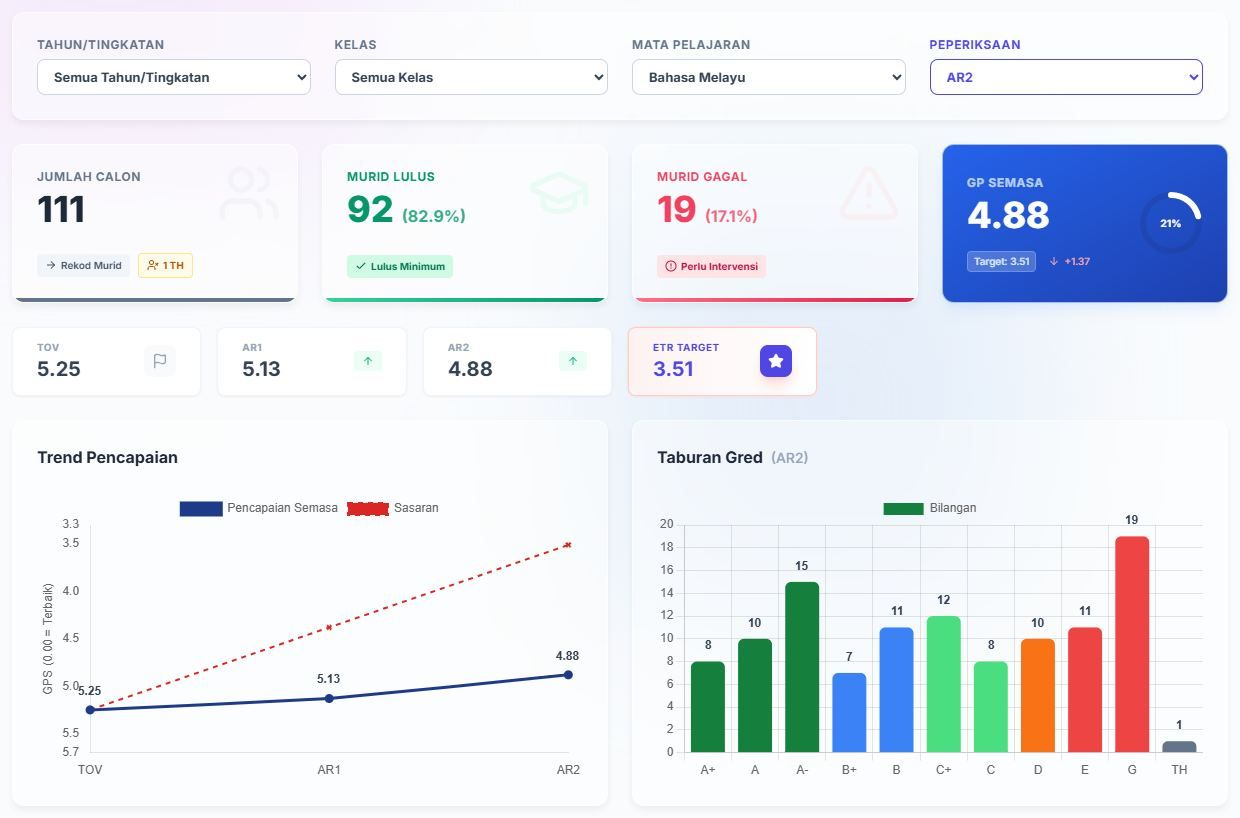
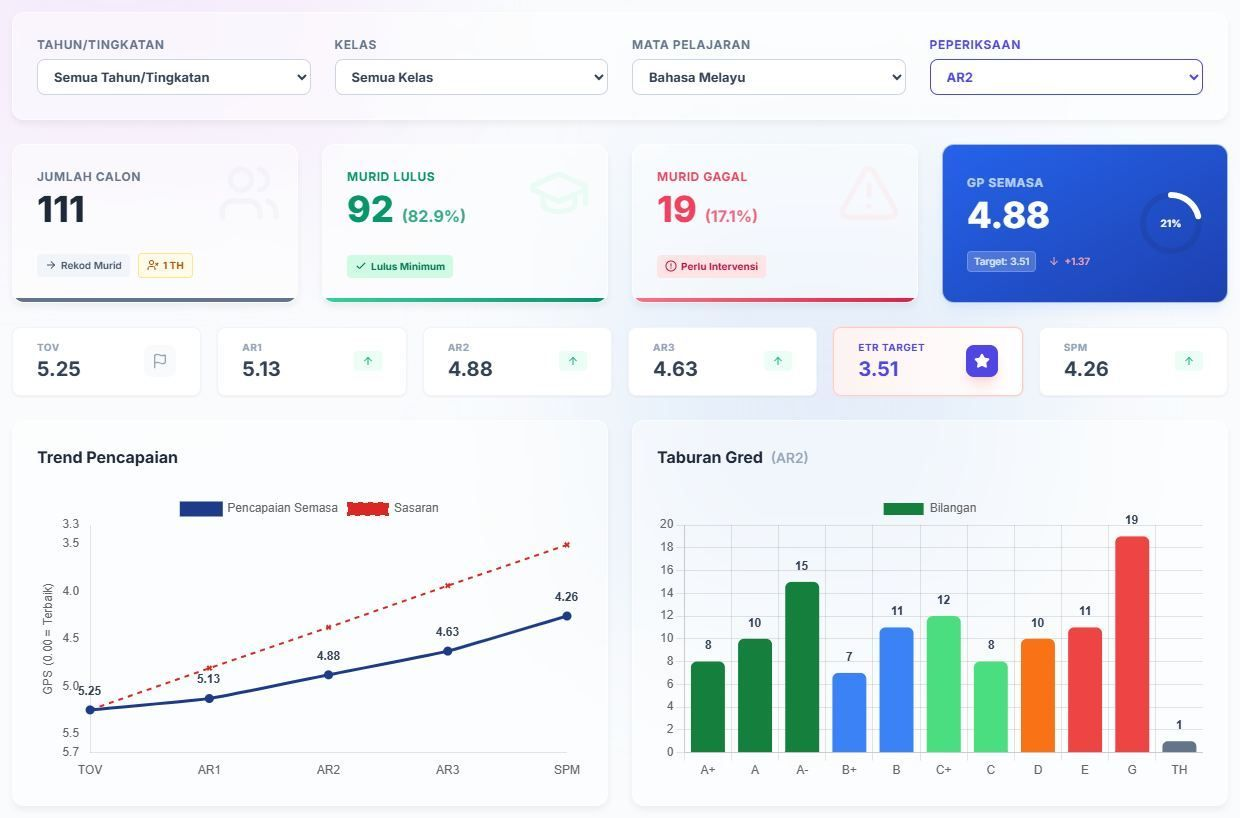
Demo lengkap hingga SPM (TOV, AR1-AR3, OTR1-OTR3, ETR, SPM) dan cetakan A4 lebih kemas
- Data demo rekaan kini meniru struktur sekolah: AR3 (Percubaan) dan SPM (gred + markah proksi)
- Kad peperiksaan Utama: tiada data dipapar '-', anak panah dibanding peperiksaan sebenar sebelumnya (bukan ETR)
- Tangkapan skrin, penanda dan angka contoh dikemas kini (Normaliti, Profil, Gred, GPMP, Utama)
- Cetakan A4: fon seragam dalam pt, modul mengalir tanpa halaman separuh kosong (26 halaman), visual Cara terangkan turut dicetak

diff --git a/index.html b/index.html
@@ -398,6 +398,45 @@ nav.side a .tick{display:inline-grid}
   a{color:inherit;text-decoration:none}
   .explain{gap:3mm}
 }
+
+/* ===== Cetakan A4: saiz fon seragam (pt) ===== */
+@media print{
+  body{font-size:10pt!important}
+  .hero p,.lead,.ex-30 p{font-size:11pt!important;line-height:1.45}
+  main p,main li,.warn-item,.ask,.callout,.ex-box p,.ex-script,.myth-q .txt,.myth-a p,.pcard p,.ck span,.steps li div{font-size:10pt!important;line-height:1.45}
+  .mod-head h2,#gp h2,#prinsip h2,#mitos h2,#semak h2{font-size:15pt!important}
+  .pcard h3,.ex-box .lbl,.ex-30 .lbl,.ck-h{font-size:10.5pt!important}
+  main h3{font-size:11pt!important}
+  .mod-head .q{font-size:9.5pt!important}
+  table th{font-size:8pt!important}table td{font-size:9.5pt!important}
+  .print-spots,.print-spots li{font-size:9pt!important}
+  .shot-cap{font-size:8.5pt!important}
+  .steps{gap:1.5mm!important}.steps li{grid-template-columns:22px 1fr!important}.steps li::before{width:18px!important;height:18px!important;font-size:8pt!important}
+  .warn-item b{font-size:10pt!important}
+  .tag,.pill{font-size:7.5pt!important}
+  .kpi small{font-size:8pt!important}.kpi strong{font-size:15pt!important}
+  .ex-viz{display:block!important;break-inside:avoid;padding:3mm!important;background:#fff!important}
+  .ex-viz .chipbtns,.ex-viz .flow-new,.ex-cap{display:none!important}
+  .ex-viz h3{font-size:10pt!important}
+  .nm-svg{max-width:120mm!important}
+  .ruler{height:100px!important;margin-bottom:28px!important}
+  .stack{height:48px!important}.stack button{font-size:9pt!important}
+  .scale div{font-size:9pt!important}.scale small{font-size:7pt!important}
+  .glossary td,#glossary td{font-size:9pt!important}
+}
+
+/* ===== Cetakan A4: aliran berterusan, tiada halaman separuh kosong ===== */
+@media print{
+  #gp,#modules section.mod,#mitos,#semak{break-before:auto!important}
+  #modules section.mod,#gp,#mitos,#semak{border-top:2px solid #111!important;padding-top:4mm!important;margin-top:7mm!important}
+  .mod-head{break-after:avoid!important;break-inside:avoid}
+  .mod-head + .tabs + .panel,.panel[data-label]::before{break-after:avoid}
+  .panel{break-before:auto}
+  main{padding-right:2px!important}
+  .hero p,.lead,.ex-30 p{font-size:10.5pt!important}
+  .shot-wrap{break-inside:avoid}
+}
+@media print{.shot-wrap{break-inside:auto!important}.shot{break-inside:avoid}.shot img{max-height:150mm!important}.shot-cap{break-after:avoid}}
 </style>
 </head>
 <body>
@@ -522,7 +561,7 @@ const MODS=[
 {id:"utama",title:"Analisis HC (Utama)",where:"Utama",grp:"Paparan Utama",q:"Adakah kita di landasan untuk mencapai target?",
  sum:`<p class="lead">Jawapannya ada pada <b>jarak</b> antara GP semasa dengan GP ETR, dan <b>arah trend</b> merentas peperiksaan.</p>
  <p>Paparan ini mengandungi empat kad (Jumlah Calon, Lulus, Gagal, GP Semasa berbanding Target), kad GP bagi setiap peperiksaan dengan anak panah, graf taburan gred, dan graf trend "Pencapaian Semasa" berbanding garis "Sasaran" (OTR).</p>
- <div class="tbl"><table><thead><tr><th>Contoh: GP Bahasa Melayu</th><th class="n">TOV</th><th class="n">AR1</th><th class="n">AR2</th><th class="n">ETR</th></tr></thead><tbody><tr><td>GP</td><td class="n">5.25</td><td class="n">5.13</td><td class="n">4.88</td><td class="n">3.51</td></tr></tbody></table></div>`,
+ <div class="tbl"><table><thead><tr><th>Contoh: GP Bahasa Melayu</th><th class="n">TOV</th><th class="n">AR1</th><th class="n">AR2</th><th class="n">AR3</th><th class="n">ETR</th><th class="n">SPM</th></tr></thead><tbody><tr><td>GP</td><td class="n">5.25</td><td class="n">5.13</td><td class="n">4.88</td><td class="n">4.63</td><td class="n">3.51</td><td class="n">4.26</td></tr></tbody></table></div>`,
  steps:["Pilih <b>satu subjek</b> dan <b>satu peperiksaan</b> dahulu supaya angka mewakili murid sebenar.","Bandingkan GP Semasa dengan Target (GP ETR). Kad bertanda \"Capai\" atau \"+jurang\".","Lihat anak panah pada kad setiap peperiksaan: <span class='pill good'>hijau</span> = GP turun = baik.","Buka graf taburan gred untuk melihat berapa murid di D dan E, bukan sekadar lulus."],
  warn:[["Subjek = Semua: Lulus/Gagal ikut rekod","Jumlah Calon menunjukkan bilangan murid, tetapi Lulus/Gagal dikira ikut rekod markah (contoh: 704 rekod lulus daripada 891 rekod). Label bertukar kepada \"Rekod Lulus/Gagal\"."],["Bulatan = kemajuan dari TOV ke target","(GP TOV − GP semasa) ÷ (GP TOV − GP target). 0% = masih di TOV, 100% = capai target. Jangan kira dari GP 9 (terburuk): cara itu memberi peratus yang terlalu tinggi."],["Lulus termasuk D dan E","82.9% lulus boleh menyembunyikan ramai murid di sempadan."],["TH tidak dikira gagal","TH yang tinggi membuat peratus lulus nampak lebih baik."]],
  ask:"Berapa GP lagi perlu diturunkan? Adakah kadar sekarang mencukupi? Subjek dan kelas mana menyumbang paling banyak kepada jurang?",
@@ -552,10 +591,10 @@ const MODS=[
  sum:`<p class="lead">Graf ini menunjukkan sama ada murid berkumpul di tengah, terbahagi kepada <b>dua kumpulan</b>, atau tertumpu di bawah.</p>
  <p>Setiap peperiksaan ialah satu lengkung (markah dalam selang 10). Lengkung "Benchmark" dibina daripada purata dan sisihan piawai <b>semua</b> peperiksaan yang dipaparkan. Kad statistik dikira semula apabila anda sembunyikan peperiksaan pada legenda.</p>`,
  steps:["Pilih satu subjek.","Baca kad statistik: purata dan sisihan piawai dikira <b>tanpa ETR</b> (target). Klik nama peperiksaan pada legenda untuk banding satu-satu.","Lihat sama ada ada <b>dua bonggol</b>: tanda dua kumpulan berbeza.","Bandingkan ekor kiri (murid lemah) antara peperiksaan: adakah ia ikut bergerak?"],
- warn:[["ETR ialah target, bukan pencapaian","Dashboard mengecualikan ETR daripada Benchmark dan kad statistik. Jika ETR dicampur, purata akan naik (51.57 berbanding 48.78) walaupun tiada murid yang bertambah baik."],["\"Analisis Bentuk\" hanya ikut purata","≥65 = \"Condong Kiri\", ≤40 = \"Condong Kanan\". Ini bukan ukuran kepencongan sebenar."],["Sisihan piawai besar = jurang dalam kelas","Satu kaedah PdP mungkin tidak sesuai untuk semua."]],
+ warn:[["ETR ialah target, bukan pencapaian","Dashboard mengecualikan ETR daripada Benchmark dan kad statistik. Jika ETR dicampur, purata akan naik (51.53 berbanding 49.42) walaupun tiada murid yang bertambah baik."],["\"Analisis Bentuk\" hanya ikut purata","≥65 = \"Condong Kiri\", ≤40 = \"Condong Kanan\". Ini bukan ukuran kepencongan sebenar."],["Sisihan piawai besar = jurang dalam kelas","Satu kaedah PdP mungkin tidak sesuai untuk semua."]],
  ask:"Adakah seluruh lengkung bergerak ke kanan, atau hanya murid yang sudah baik? Adakah wujud dua kumpulan yang perlukan strategi berbeza?",
  lab:`<h3>Cuba: pilih peperiksaan yang dipaparkan (Matematik)</h3><div class="row" id="nmBox"></div><div class="kpis"><div class="kpi"><small>Purata jika dicampur</small><strong id="nmM">–</strong></div><div class="kpi"><small>Label "Analisis Bentuk"</small><strong id="nmL" style="font-size:16px">–</strong></div></div><div class="callout" id="nmNote"></div>`,
- init(){const D=[["TOV",112,47.9],["AR1",112,48.3],["AR2",110,50.1],["ETR",112,59.9]];nmBox.innerHTML=D.map((d,i)=>`<label class="ck" style="border:0;padding:4px 10px 4px 0"><input type="checkbox" data-i="${i}" checked><span>${d[0]} <small style="color:var(--muted)">(purata ${d[2]})</small></span></label>`).join('');
+ init(){const D=[["TOV",112,47.9],["AR1",112,48.3],["AR2",110,50.1],["AR3",110,51.4],["ETR",112,59.9]];nmBox.innerHTML=D.map((d,i)=>`<label class="ck" style="border:0;padding:4px 10px 4px 0"><input type="checkbox" data-i="${i}" checked><span>${d[0]} <small style="color:var(--muted)">(purata ${d[2]})</small></span></label>`).join('');
    const f=()=>{let n=0,s=0,etr=false;nmBox.querySelectorAll('input').forEach(c=>{if(c.checked){const d=D[c.dataset.i];n+=d[1];s+=d[1]*d[2];if(d[0]==='ETR')etr=true}});if(!n){nmM.textContent='–';nmL.textContent='–';nmNote.textContent='Pilih sekurang-kurangnya satu.';return}const m=s/n;nmM.textContent=m.toFixed(1);nmL.textContent=m>=65?'Condong Kiri':m<=40?'Condong Kanan':'Normal / Sederhana';
    nmNote.innerHTML=etr?'<b>ETR dicampur:</b> purata naik kerana target bukan pencapaian. Sebab itu Dashboard tidak mencampurkan ETR.':'Tanpa ETR: inilah purata pencapaian sebenar, sama seperti yang dipaparkan Dashboard.'};nmBox.onchange=f;f()},
  quiz:{q:"Graf markah mempunyai dua bonggol yang jelas. Apa tindakan terbaik?",opts:["Laporkan purata keseluruhan","Tapis mengikut kelas atau aliran untuk melihat dua kumpulan itu","Abaikan, ia kebetulan"],ans:1,exp:"Dua bonggol bermaksud dua kumpulan berbeza (contohnya aliran sains dan sastera). Purata tunggal menyembunyikan kedua-duanya."}},
@@ -689,8 +728,9 @@ utama:[{img:'img/utama.jpg',cap:'Paparan Utama · Bahasa Melayu · AR2',spots:[
  [40.3,26.3,'Lulus termasuk D dan E','92 lulus (82.9%) termasuk murid gred D dan E yang berada di sempadan.'],
  [88.7,21.4,'Bulatan = kemajuan dari TOV','21%: GP sudah bergerak 21% daripada jarak TOV (5.25) ke target (3.51). Masih ada 79% jarak lagi.'],
  [25.8,45,'Kad setiap peperiksaan','Anak panah hijau bermaksud GP turun, iaitu prestasi naik berbanding peperiksaan sebelumnya.'],
- [37.1,78.2,'Pencapaian vs Sasaran','Garis biru (sebenar) makin jauh dari garis merah putus-putus (OTR). Sekolah makin ketinggalan dari landasan target.'],
- [85.5,68.5,'Taburan gred','19 murid G dan 21 murid D/E. Peratus lulus 82.9% menyembunyikan 40 murid yang berisiko.']]}],
+ [40.3,88,'Pencapaian vs Sasaran','Garis biru (sebenar) makin jauh dari garis merah putus-putus (OTR). Sekolah makin ketinggalan dari landasan target.'],
+ [85.5,68.5,'Taburan gred','19 murid G dan 21 murid D/E. Peratus lulus 82.9% menyembunyikan 40 murid yang berisiko.'],
+ [91.9,45,'Kad SPM','Keputusan SPM sebenar (gred). Anak panah membandingkan SPM dengan AR3, iaitu peperiksaan sebenar terakhir, bukan dengan ETR target. Jika tiada data, kad memaparkan –.']]}],
 matriks:[{img:'img/matriks.jpg',cap:'Matriks Pencapaian · Matematik · TOV → AR2',spots:[
  [82.3,5.8,'Mula dan Akhir','Pilih OTR1/OTR2 sebagai "Akhir" untuk menyemak sama ada murid berada di tempat sepatutnya, bukan sekadar bergerak.'],
  [13.3,37.4,'Cara baca paksi','Lajur (melintang) = gred TOV. Baris (menegak) = gred AR2.'],
@@ -699,23 +739,24 @@ matriks:[{img:'img/matriks.jpg',cap:'Matriks Pencapaian · Matematik · TOV → 
  [88.7,60.5,'Ringkasan pergerakan','41 naik, 50 kekal, 19 merosot. Hampir separuh murid tidak bergerak gred langsung.'],
  [92.7,86.6,'TH / tidak setara','2 murid tidak hadir dalam salah satu peperiksaan. Mereka tidak dikira Meningkat atau Merosot kerana perbandingannya tidak setara.']]}],
 normaliti:[{img:'img/normaliti.jpg',cap:'Taburan Normal · Matematik',spots:[
- [26.6,30.1,'Legenda boleh diklik','Klik nama peperiksaan untuk sembunyi atau papar lengkungnya. Kad statistik dikira semula.'],
- [37.9,39,'Puncak TOV di 40','Ramai murid berkumpul betul-betul di sempadan lulus. Sedikit gerakan boleh mengubah peratus lulus dengan besar.'],
- [80.6,39,'Lengkung Benchmark','Taburan normal teori daripada pencapaian sebenar (tanpa ETR). Lengkung peperiksaan yang lari jauh dari bentuk ini perlu disiasat.'],
- [29,90.9,'Purata tanpa ETR','48.78 ialah purata pencapaian sebenar. ETR ialah target, jadi tidak dicampur dalam purata ini.'],
- [61.3,90.9,'Sisihan piawai','17.61: kebanyakan murid tersebar kira-kira 18 markah di atas dan bawah purata. Satu kaedah PdP mungkin tidak sesuai untuk semua.'],
- [93.5,90.9,'Analisis Bentuk','Label ini hanya berdasarkan purata (40–65 = "Normal / Sederhana"), bukan bentuk graf sebenar.']]}],
+ [20.2,28.5,'Legenda boleh diklik','Klik nama peperiksaan untuk sembunyi atau papar lengkungnya. Kad statistik dikira semula.'],
+ [37.9,36.8,'Puncak TOV di 40','Ramai murid berkumpul betul-betul di sempadan lulus. Kenaikan atau penurunan beberapa markah sahaja sudah cukup untuk memindahkan mereka melintasi garis 40, jadi peratus lulus boleh berubah banyak walaupun purata hampir sama.'],
+ [80.6,36.8,'Lengkung Benchmark','Taburan normal teori daripada pencapaian sebenar (tanpa ETR). Lengkung peperiksaan yang lari jauh dari bentuk ini perlu disiasat.'],
+ [41.9,79.3,'Lengkung SPM','SPM hanya ada gred, jadi markah proksi digunakan (cth G = 20, A+ = 95). Sebab itu bentuknya berbonggol pelik. Jangan bandingkan bentuk SPM dengan peperiksaan lain.'],
+ [29,91.7,'Purata tanpa ETR','49.42 ialah purata pencapaian sebenar. ETR (target) dan SPM (markah proksi) tidak dicampur dalam purata ini.'],
+ [61.3,91.7,'Sisihan piawai','18.61: kebanyakan murid tersebar kira-kira 19 markah di atas dan bawah purata. Satu kaedah PdP mungkin tidak sesuai untuk semua.'],
+ [93.5,91.7,'Analisis Bentuk','Label ini hanya berdasarkan purata (40–65 = "Normal / Sederhana"), bukan bentuk graf sebenar.']]}],
 gpmp:[{img:'img/gpmp.jpg',cap:'Banding GPMP · semua subjek',spots:[
  [56.5,4.9,'Simulasi','Pilih +1 gred, +10 markah dan lain-lain untuk menguji sama ada target realistik. Nombor bertukar merah.'],
- [29.8,24.9,'Kad OTR','Target pertengahan yang dikira dari TOV ke ETR. Bandingkan AR1 dengan OTR1, AR2 dengan OTR2.'],
+ [23,24.9,'Kad OTR','Target pertengahan yang dikira dari TOV ke ETR. Bandingkan AR1 dengan OTR1, AR2 dengan OTR2, AR3 dengan OTR3.'],
  [16.1,46.6,'Klik nama subjek','Membuka graf trend subjek itu.'],
- [83.9,42.2,'Anak panah dalam lajur','Hijau = GP turun (baik). Merah = GP naik (merosot). Contoh: Pendidikan Islam 4.06 → 4.10 merosot walaupun GP-nya antara yang terbaik.'],
+ [67.3,42.2,'Anak panah dalam lajur','Hijau = GP turun (baik). Merah = GP naik (merosot). Contoh: Pendidikan Islam 4.06 → 4.10 dalam AR2 (merosot), kemudian pulih ke 4.01 dalam AR3.'],
  [96,42.2,'Lajur ETR','Kira jarak AR2 ke ETR bagi setiap baris. Subjek dengan GP baik tidak semestinya paling hampir dengan targetnya.']]},
  {img:'img/gred.jpg',cap:'Analisis Gred · Matematik',spots:[
- [27.4,57.3,'GPMP setiap peperiksaan','6.48 → 6.29 → 6.05. Bertambah baik, tetapi masih jauh dari ETR 4.67.'],
- [73.3,57.3,'Lajur D dan E','19 murid di D/E dalam AR2. Mereka dikira lulus tetapi mudah jatuh ke G.'],
- [81.4,57.3,'Lajur G','36 → 40 → 33. G naik dalam AR1 sebelum turun. Satu titik tidak menceritakan semuanya.'],
- [87.6,57.3,'TH','2 murid tidak hadir AR2.']]}],
+ [27.4,50.2,'GPMP setiap peperiksaan','6.48 → 6.29 → 6.05 → 5.72 (AR3), dan SPM 5.50. Bertambah baik, tetapi masih jauh dari ETR 4.67.'],
+ [73.3,50.2,'Lajur D dan E','19 murid di D/E dalam AR2. Mereka dikira lulus tetapi mudah jatuh ke G.'],
+ [81.4,50.2,'Lajur G','36 → 40 → 33 → 34 → 28 (SPM). G naik dalam AR1 dan AR3 sebelum turun. Satu titik tidak menceritakan semuanya.'],
+ [87.6,50.2,'TH','2 murid tidak hadir AR2 dan 2 murid tidak hadir AR3.']]}],
 grisk:[{img:'img/grisk.jpg',cap:'Analisis Risiko G-Risk · Matematik · AR2',spots:[
  [96,3.6,'Mod 3-Tier / 4-Tier','Mengubah cara murid G dipecahkan. Gunakan 4-Tier jika ramai murid sangat lemah.'],
  [50,16.3,'Definisi FDI','"Lagi tinggi FDI, lagi ramai calon hampir lulus". Nama "Fail Density" mengelirukan: nilai tinggi ialah berita baik.'],
@@ -765,12 +806,13 @@ individu:[{img:'img/rumusan.jpg',cap:'Rumusan Keseluruhan · AR2',spots:[
  [64.5,31.9,'Sel TH (kelabu)','Subjek TH tidak dikira dalam GP individu murid.'],
  [96.8,36.7,'GP individu','Disusun dari terbaik. Semua subjek diberi berat sama, jadi bandingkan murid dalam aliran yang sama.']]},
  {img:'img/profil.jpg',cap:'Profil Murid · contoh murid 5 DEDIKASI',spots:[
- [24.2,9.3,'Pilih murid','Pilih tingkatan, kelas, kemudian murid.'],
- [68.5,16.6,'Cetak PDF','PDF individu atau seluruh kelas, untuk perjumpaan dengan murid atau ibu bapa.'],
- [17.5,25.9,'Label VARK','Label isian guru. Gunakan untuk variasi PdP, bukan sebagai sebab murid lemah.'],
- [43.7,58.6,'AR1 30 vs OTR1 46','Murid ini 16 markah di bawah sasaran pertengahan dalam BM.'],
- [74.2,59.3,'AR2 24 vs OTR2 49','Jurang melebar ke 25 markah. Corak menurun berterusan, bukan satu hari yang buruk.'],
- [79.8,78.3,'Semua subjek jatuh serentak','AR2 lebih rendah daripada AR1 dalam semua 7 subjek. Ini isu murid (kehadiran, motivasi, keluarga), bukan isu subjek.']]}]
+ [24.2,9,'Pilih murid','Pilih tingkatan, kelas, kemudian murid.'],
+ [68.5,16.2,'Cetak PDF','PDF individu atau seluruh kelas, untuk perjumpaan dengan murid atau ibu bapa.'],
+ [17.5,24.4,'Label VARK','Label isian guru. Gunakan untuk variasi PdP, bukan sebagai sebab murid lemah.'],
+ [34.2,56.9,'AR1 30 vs OTR1 45','Murid ini 15 markah di bawah sasaran pertengahan dalam BM.'],
+ [57,57.6,'AR2 24 vs OTR2 48','Jurang melebar ke 24 markah. Corak menurun berterusan, bukan satu hari yang buruk.'],
+ [79.9,58.7,'AR3 18 vs OTR3 50','32 markah di bawah sasaran, dan SPM akhirnya G. Murid ini sepatutnya dikenal pasti seawal AR1.'],
+ [80.6,76.2,'Semua subjek jatuh serentak','AR3 lebih rendah daripada AR1 dalam semua 7 subjek, dan SPM gred G untuk semua. Ini isu murid (kehadiran, motivasi, keluarga), bukan isu subjek.']]}]
 };
 const shotHTML=(id,s)=>`<div class="shot-wrap" data-shot="${id}"><p class="shot-cap">${s.cap}<span class="shot-hint"> · <span class="hv">halakan tetikus atau </span>klik nombor untuk penerangan, klik gambar untuk zum</span><span class="demo-link"> · <a href="demo/dashboard.html?page=dashboard" target="_blank" rel="noopener">Cuba dalam demo ↗</a></span></p>
  <div class="shot" role="group" aria-label="Tangkapan skrin: ${s.cap}"><img src="${s.img}" alt="Tangkapan skrin Dashboard SPPM: ${s.cap}" loading="lazy" decoding="async" width="1240" height="${IMG_DIM[s.img]||800}">${s.spots.map((p,i)=>`<button class="spot" style="left:${p[0]}%;top:${p[1]}%" data-i="${i}" aria-label="${i+1}. ${p[2]}" aria-describedby="${id}-pop">${i+1}</button>`).join('')}<div class="pop" id="${id}-pop" role="tooltip" hidden></div></div>
@@ -798,7 +840,7 @@ function setSpot(wrap,i,show){const s=shotData(wrap.dataset.shot);i=(i+s.spots.l
 const ICO={"menu":"<path d=\"M4 6h16M4 12h16M4 18h16\"/>","moon":"<path d=\"M12 3a6 6 0 0 0 9 9 9 9 0 1 1-9-9Z\"/>","scale":"<path d=\"m16 16 3-8 3 8c-.87.65-1.92 1-3 1s-2.13-.35-3-1Z\"/><path d=\"m2 16 3-8 3 8c-.87.65-1.92 1-3 1s-2.13-.35-3-1Z\"/><path d=\"M7 21h10\"/><path d=\"M12 3v18\"/><path d=\"M3 7h2c2 0 5-1 7-2 2 1 5 2 7 2h2\"/>","users":"<path d=\"M16 21v-2a4 4 0 0 0-4-4H6a4 4 0 0 0-4 4v2\"/><circle cx=\"9\" cy=\"7\" r=\"4\"/><path d=\"M22 21v-2a4 4 0 0 0-3-3.87\"/><path d=\"M16 3.13a4 4 0 0 1 0 7.75\"/>","trend":"<path d=\"m22 7-8.5 8.5-5-5L2 17\"/><path d=\"M16 7h6v6\"/>","search":"<circle cx=\"11\" cy=\"11\" r=\"8\"/><path d=\"m21 21-4.3-4.3\"/>","checkCircle":"<path d=\"M22 11.08V12a10 10 0 1 1-5.93-9.14\"/><path d=\"m9 11 3 3L22 4\"/>","star":"<path d=\"M12 2l3.09 6.26L22 9.27l-5 4.87 1.18 6.88L12 17.77l-6.18 3.25L7 14.14 2 9.27l6.91-1.01L12 2z\"/>","alert":"<path d=\"m21.73 18-8-14a2 2 0 0 0-3.48 0l-8 14A2 2 0 0 0 4 21h16a2 2 0 0 0 1.73-3Z\"/><path d=\"M12 9v4\"/><path d=\"M12 17h.01\"/>","repeat":"<path d=\"m17 2 4 4-4 4\"/><path d=\"M3 11v-1a4 4 0 0 1 4-4h14\"/><path d=\"m7 22-4-4 4-4\"/><path d=\"M21 13v1a4 4 0 0 1-4 4H3\"/>","clip":"<rect width=\"8\" height=\"4\" x=\"8\" y=\"2\" rx=\"1\"/><path d=\"M16 4h2a2 2 0 0 1 2 2v14a2 2 0 0 1-2 2H6a2 2 0 0 1-2-2V6a2 2 0 0 1 2-2h2\"/><path d=\"m9 14 2 2 4-4\"/>","camera":"<path d=\"M14.5 4h-5L7 7H4a2 2 0 0 0-2 2v9a2 2 0 0 0 2 2h16a2 2 0 0 0 2-2V9a2 2 0 0 0-2-2h-3l-2.5-3z\"/><circle cx=\"12\" cy=\"13\" r=\"3\"/>","check":"<path d=\"M20 6 9 17l-5-5\"/>","up":"<path d=\"m5 12 7-7 7 7\"/><path d=\"M12 19V5\"/>","left":"<path d=\"m15 18-6-6 6-6\"/>","right":"<path d=\"m9 18 6-6-6-6\"/>","x":"<path d=\"M18 6 6 18\"/><path d=\"m6 6 12 12\"/>","compass":"<circle cx=\"12\" cy=\"12\" r=\"10\"/><path d=\"m16.24 7.76-2.12 6.36-6.36 2.12 2.12-6.36 6.36-2.12z\"/>","calendar":"<rect width=\"18\" height=\"18\" x=\"3\" y=\"4\" rx=\"2\"/><path d=\"M16 2v4M8 2v4M3 10h18\"/>","help":"<circle cx=\"12\" cy=\"12\" r=\"10\"/><path d=\"M9.09 9a3 3 0 0 1 5.83 1c0 2-3 3-3 3\"/><path d=\"M12 17h.01\"/>","printer":"<path d=\"M6 9V2h12v7\"/><path d=\"M6 18H4a2 2 0 0 1-2-2v-5a2 2 0 0 1 2-2h16a2 2 0 0 1 2 2v5a2 2 0 0 1-2 2h-2\"/><rect width=\"12\" height=\"8\" x=\"6\" y=\"14\"/>","reset":"<path d=\"M3 12a9 9 0 1 0 9-9 9.75 9.75 0 0 0-6.74 2.74L3 8\"/><path d=\"M3 3v5h5\"/>"};
 const svg=(n,cls='')=>`<svg class="ico ${cls}" viewBox="0 0 24 24" aria-hidden="true">${ICO[n]}</svg>`;
 // Saiz sebenar gambar (elak lompatan susun atur semasa dimuat)
-const IMG_DIM={'img/utama.jpg':818,'img/matriks.jpg':760,'img/normaliti.jpg':770,'img/gpmp.jpg':905,'img/gred.jpg':525,'img/grisk.jpg':1225,'img/impak.jpg':622,'img/jurang.jpg':1524,'img/vark.jpg':1100,'img/gaction.jpg':1524,'img/rumusan.jpg':1112,'img/profil.jpg':1400};
+const IMG_DIM={'img/utama.jpg':818,'img/matriks.jpg':760,'img/normaliti.jpg':815,'img/gpmp.jpg':905,'img/gred.jpg':600,'img/grisk.jpg':1225,'img/impak.jpg':622,'img/jurang.jpg':1524,'img/vark.jpg':1100,'img/gaction.jpg':1524,'img/rumusan.jpg':1112,'img/profil.jpg':1440};
 
 /* ===================== RENDER ===================== */
 const $=s=>document.querySelector(s);
@@ -816,7 +858,7 @@ const exScript=(t)=>`<div class="ex-box"><div class="lbl">${svg('calendar','sm')
 const EXPLAIN={
 normaliti:{html:exHead('Graf ini mengira <b>berapa murid dalam setiap julat 10 markah</b>. Bentuk graf memberitahu sama ada murid berkumpul di tengah, terpisah kepada dua kumpulan, atau ramai tertinggal di bawah 40.','Bayangkan semua murid beratur di padang mengikut markah: 0 di hujung kiri, 100 di hujung kanan. Graf ini ialah <b>ketinggian barisan</b> di setiap tempat. Bonggol tinggi = ramai murid berdiri di situ.')
  +`<div class="ex-viz"><h3>Cuba: pilih bentuk taburan</h3><div class="chipbtns" id="nmxBtns"><button class="on" data-k="sihat">Sihat</button><button data-k="dua">Dua kumpulan</button><button data-k="bawah">Ramai di bawah</button><button data-k="gerak">Bergerak (TOV → AR2)</button></div><svg class="nm-svg" id="nmxSvg" viewBox="0 0 520 210" role="img" aria-label="Contoh bentuk taburan markah"></svg><div class="ex-cap" id="nmxCap"></div></div>`
- +exScript('Graf ini menunjukkan berapa murid dalam setiap julat 10 markah. Untuk Matematik, kebanyakan murid berkumpul sekitar 40, iaitu betul-betul di sempadan lulus. Sedikit kenaikan markah boleh mengubah peratus lulus dengan besar, jadi tumpuan kita ialah murid dalam julat 30 hingga 49.'),
+ +exScript('Graf ini menunjukkan berapa murid dalam setiap julat 10 markah. Untuk Matematik, kebanyakan murid berkumpul sekitar 40, iaitu betul-betul di sempadan lulus. Kenaikan beberapa markah sahaja boleh memindahkan ramai murid melintasi garis lulus, jadi tumpuan kita ialah murid dalam julat 30 hingga 49.'),
  init(){const P={sihat:{a:[0,1,3,8,15,22,15,8,3,1,0],cap:'<b>Satu bonggol, kebanyakan di atas 40.</b>Pengajaran biasa sesuai untuk majoriti. Tumpu kepada ekor kiri: murid yang masih di bawah garis 40.'},
   dua:{a:[0,2,8,14,8,4,8,14,8,2,0],cap:'<b>Dua bonggol = dua kumpulan berbeza.</b>Contohnya aliran sains dan sastera, atau kelas kuat dan lemah. Purata tunggal mengelirukan. Tapis ikut kelas dan rancang dua strategi berbeza.'},
   bawah:{a:[2,8,14,18,14,9,5,3,1,0,0],cap:'<b>Bonggol di sebelah kiri garis 40.</b>Ramai murid belum menguasai asas. Fokus kepada pengukuhan asas untuk seluruh kumpulan, bukan latih tubi soalan peperiksaan.'},

diff --git a/demo/gas-mock.js b/demo/gas-mock.js
@@ -2,7 +2,7 @@
  * Sheet disimpan dalam memori + localStorage. code.js asal dijalankan tanpa ubah suai.
  */
 (function () {
-  const STORE_KEY = window.__SPPM_SEED ? 'SPPM_DEMO_DB_v3_real' : 'SPPM_DEMO_DB_v3';
+  const STORE_KEY = window.__SPPM_SEED ? 'SPPM_DEMO_DB_v5_real' : 'SPPM_DEMO_DB_v5';
   const DEMO_DB_ID = 'DEMO_CLIENT_DB';
 
   // ---------- RNG deterministik ----------
@@ -10,6 +10,13 @@
   function rnd() { seed = (seed * 1664525 + 1013904223) % 4294967296; return seed / 4294967296; }
   function gauss() { let u = 0, v = 0; while (u === 0) u = rnd(); while (v === 0) v = rnd(); return Math.sqrt(-2 * Math.log(u)) * Math.cos(2 * Math.PI * v); }
   function pick(a) { return a[Math.floor(rnd() * a.length)]; }
+  let seed3 = 55005;
+  function rnd3() { seed3 = (seed3 * 1664525 + 1013904223) % 4294967296; return seed3 / 4294967296; }
+  function gauss3() { let u = 0, v = 0; while (u === 0) u = rnd3(); while (v === 0) v = rnd3(); return Math.sqrt(-2 * Math.log(u)) * Math.cos(2 * Math.PI * v); }
+  const SPM_PROXY = { 'A+': 95, 'A': 85, 'A-': 75, 'B+': 68, 'B': 63, 'C+': 58, 'C': 53, 'D': 48, 'E': 43, 'G': 20 };
+  let seed2 = 33003;
+  function rnd2() { seed2 = (seed2 * 1664525 + 1013904223) % 4294967296; return seed2 / 4294967296; }
+  function gauss2() { let u = 0, v = 0; while (u === 0) u = rnd2(); while (v === 0) v = rnd2(); return Math.sqrt(-2 * Math.log(u)) * Math.cos(2 * Math.PI * v); }
   function clamp(x) { return Math.max(0, Math.min(100, Math.round(x))); }
 
   // ---------- Data contoh ----------
@@ -67,6 +74,13 @@
             if (ex !== 'ETR' && ex !== 'TOV' && rnd() < 0.012) { markah.push(['M' + (++mid), kp, code, ex, '', 'TH']); return; }
             markah.push(['M' + (++mid), kp, code, ex, m, gradeOf(m)]);
           });
+          // AR3 (Percubaan) guna aliran rawak BERASINGAN supaya markah TOV/AR1/AR2/ETR sedia ada tidak berubah
+          const ar3 = clamp(base + growth * 3.2 + gauss2() * 5);
+          if (rnd2() < 0.012) markah.push(['M' + (++mid), kp, code, 'AR3', '', 'TH']);
+          else markah.push(['M' + (++mid), kp, code, 'AR3', ar3, gradeOf(ar3)]);
+          // SPM: gred huruf sahaja + markah proksi (sama seperti sistem sebenar). Aliran rawak ketiga.
+          const spmG = gradeOf(clamp(base + growth * 3.8 + 2 + gauss3() * 6));
+          markah.push(['M' + (++mid), kp, code, 'SPM', SPM_PROXY[spmG], spmG]);
         });
       }
     });
@@ -77,8 +91,8 @@
           ['KOHORT', '2026'], ['PEPERIKSAAN', 'SPM'], ['ADMIN_PASS', 'admin123'], ['KOD_SEKOLAH', 'DEMO001']],
         DB_MURID: murid,
         DB_SUBJEK: [['ID_SUBJEK', 'NAMA', 'SINGKATAN', 'KATEGORI']].concat(SUBJ.map(s => s.slice(0, 4))),
-        DB_EXAM: [['ID_EXAM', 'NAMA_EXAM', 'SINGKATAN'], ['E1', 'Take Off Value', 'TOV'], ['E2', 'Peperiksaan Pertengahan Tahun (AR1)', 'AR1'],
-          ['E3', 'Peperiksaan Percubaan (AR2)', 'AR2'], ['E4', 'Expected Target Result', 'ETR']],
+        DB_EXAM: [['ID_EXAM', 'NAMA_EXAM', 'SINGKATAN'], ['E1', 'Take Off Value', 'TOV'], ['E2', 'PAT Tingkatan 4 (AR1)', 'AR1'],
+          ['E3', 'PPT Tingkatan 5 (AR2)', 'AR2'], ['E5', 'Peperiksaan Percubaan (AR3)', 'AR3'], ['E4', 'Expected Target Result', 'ETR'], ['E6', 'Sijil Pelajaran Malaysia', 'SPM']],
         DB_MARKAH: markah,
         DB_GRED: [['ID_GRED', 'GRED', 'MIN', 'MAX', 'STATUS', 'NILAI']].concat(GRED),
         DB_GAMBAR: [['KP', 'BASE64']]

diff --git a/demo/dashboard.html b/demo/dashboard.html
@@ -3814,7 +3814,9 @@
         let html = "";
 
         EXAM_ORD.forEach((ex, idx) => {
-            const gpmpStr = calculateGPMP(sk, ss, ex, 0, st);
+            // Tiada data = "–" (bukan 0.00; GP 0.00 bermaksud semua A+)
+            const gpmpVal = calculateGPMPValue(sk, ss, ex, 0, st);
+            const gpmpStr = gpmpVal === null ? '–' : gpmpVal.toFixed(2);
             const isETR = normExam(ex) === 'ETR';
             const isTOV = normExam(ex) === 'TOV';
 
@@ -3848,10 +3850,14 @@
                 let deltaHtml = "";
                 let hoverBorder = "hover:border-blue-300";
 
-                if (idx > 0) {
-                    const prevEx = EXAM_ORD[idx - 1];
-                    const prevGpmpStr = calculateGPMP(sk, ss, prevEx, 0, st);
-                    const diff = parseFloat(gpmpStr) - parseFloat(prevGpmpStr);
+                // Bandingkan dengan peperiksaan SEBENAR sebelumnya yang ada data (langkau ETR, iaitu target).
+                let prevVal = null;
+                for (let j = idx - 1; j >= 0 && prevVal === null; j--) {
+                    if (normExam(EXAM_ORD[j]) === 'ETR') continue;
+                    prevVal = calculateGPMPValue(sk, ss, EXAM_ORD[j], 0, st);
+                }
+                if (gpmpVal !== null && prevVal !== null) {
+                    const diff = gpmpVal - prevVal;
 
                     if (diff < 0) {
                         // GPMP Turun = Menurun/Lebih Baik (Prestasi Meningkat)
